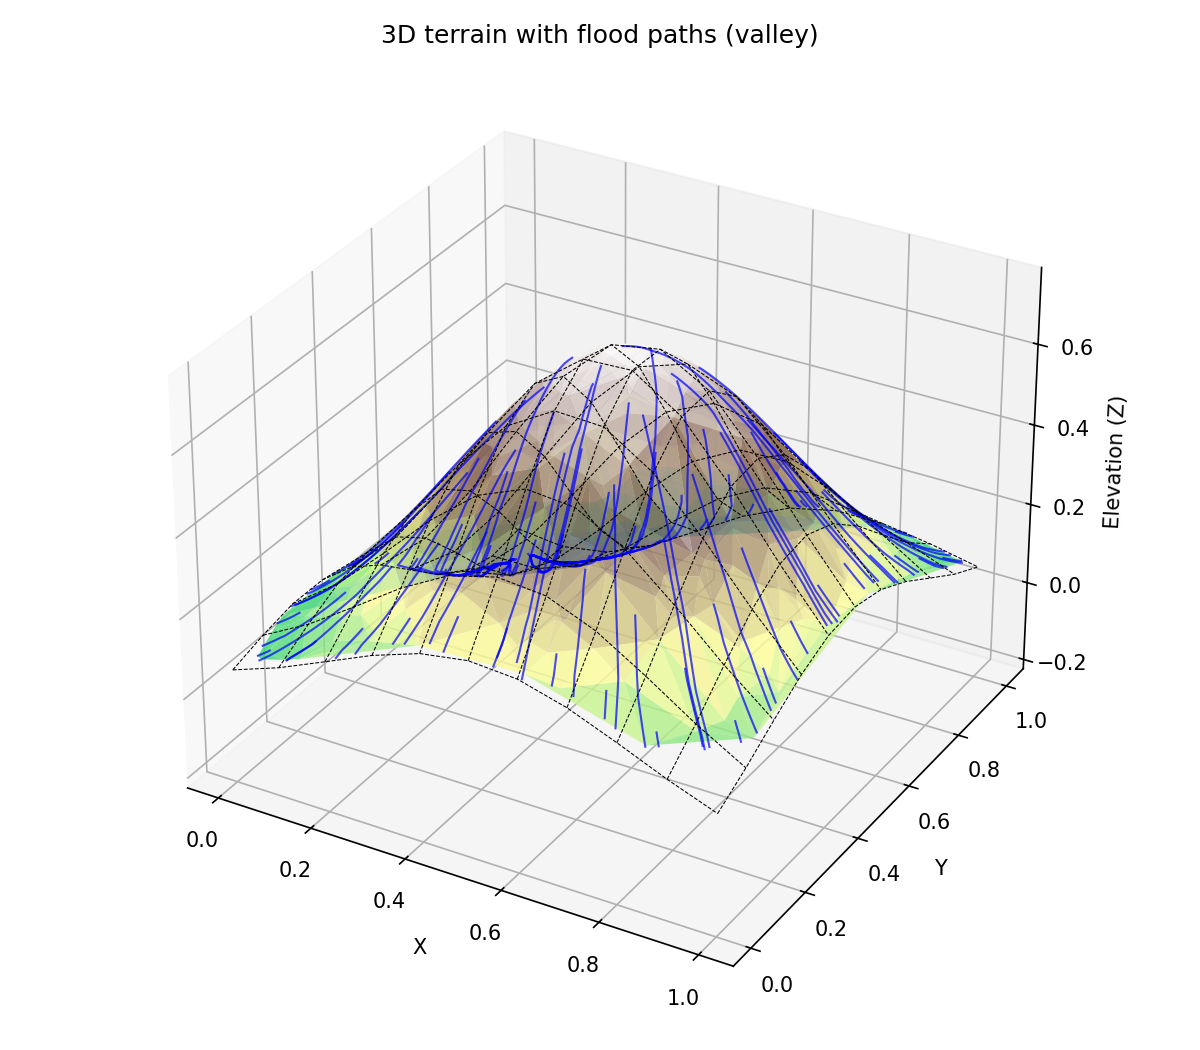
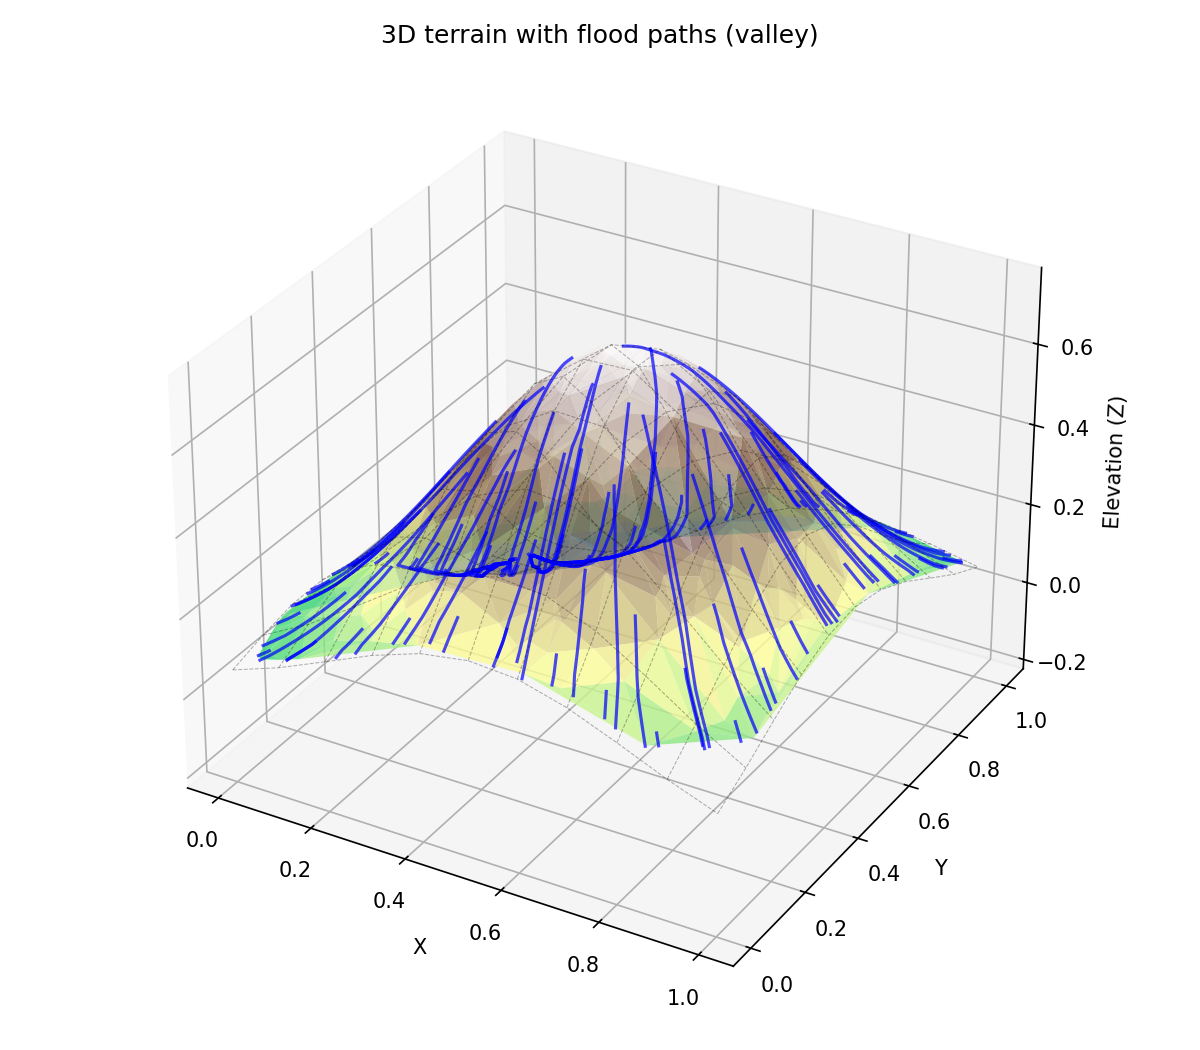
Lighten grid overlay, thicken flood paths, drop unused import
Grid lines drawn at alpha 0.3 and paths at linewidth 1.5 so the paths
read clearly at README size. Figures regenerated; heatmaps unchanged.

diff --git a/src/floodsim/plot.py b/src/floodsim/plot.py
@@ -34,14 +34,15 @@ def plot_terrain_with_paths(ax, points, z, tri, height_fn, paths,
     grid_segments += [np.c_[x_grid[:, j], y_grid[:, j], z_grid[:, j]]
                       for j in range(x_grid.shape[1])]
     ax.add_collection3d(Line3DCollection(
-        grid_segments, colors="black", linestyles="--", linewidths=0.5),
+        grid_segments, colors="black", linestyles="--", linewidths=0.5,
+        alpha=0.3),
         autolim=False)
 
     path_segments = [np.c_[path[:, 0], path[:, 1],
                            height_fn(path[:, 0], path[:, 1])]
                      for path in paths]
     ax.add_collection3d(Line3DCollection(
-        path_segments, colors="blue", linewidths=1, alpha=0.7),
+        path_segments, colors="blue", linewidths=1.5, alpha=0.7),
         autolim=False)
 
     ax.set_xlabel("X")

diff --git a/src/floodsim/interactive.py b/src/floodsim/interactive.py
@@ -10,7 +10,7 @@ from pathlib import Path
 
 import numpy as np
 
-from .flow import UNIT_SQUARE, cell_edges
+from .flow import cell_edges
 
 INTERACTIVE_FIGURE = "terrain_flood_paths.html"
 
